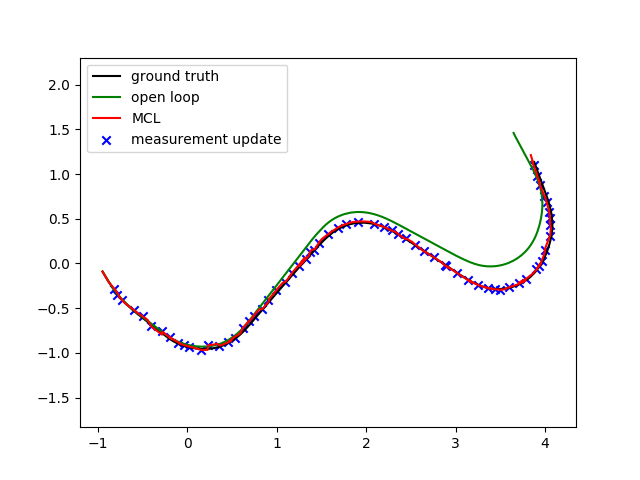
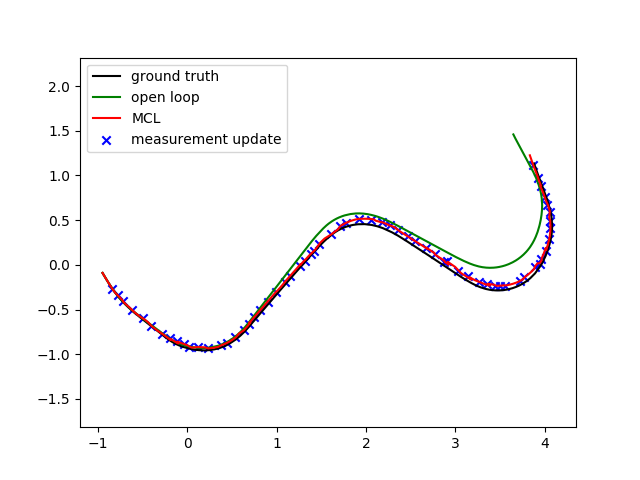
Transition update correct but has precision issues

diff --git a/particle_filter.py b/particle_filter.py
@@ -59,8 +59,8 @@ class ParticleFilter(object):
         # TODO: Update self.xs.
         # Hint: Call self.transition_model().
         # Hint: You may find np.random.multivariate_normal useful.
-        eps = np.random.multivariate_normal(np.zeros(u.shape[0]), self.R, size=self.M) # Gaussian input noise
-        us = u + eps
+        eps = np.random.multivariate_normal(np.zeros(u.shape[0]), self.R*dt, size=self.M) # Gaussian input noise
+        us = u[None,:] + eps
         self.xs = self.transition_model(us, dt)
         ########## Code ends here ##########
 
